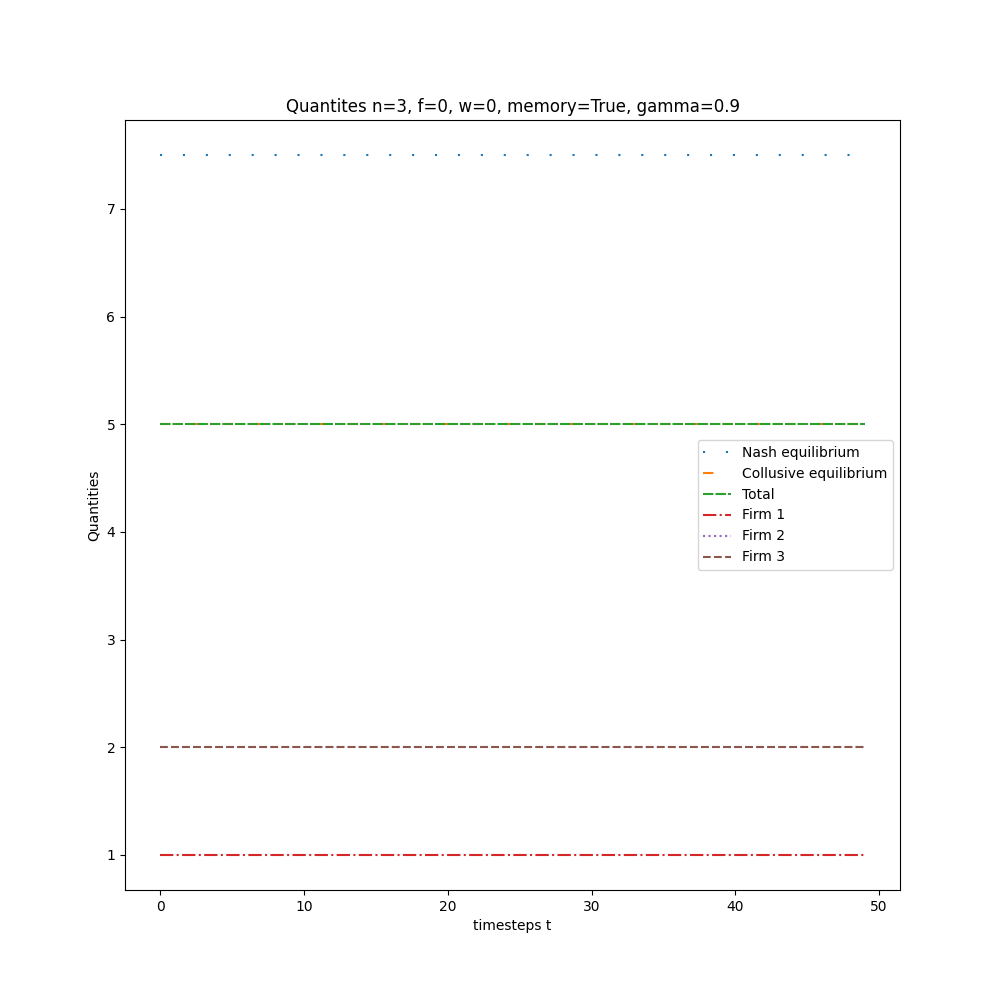
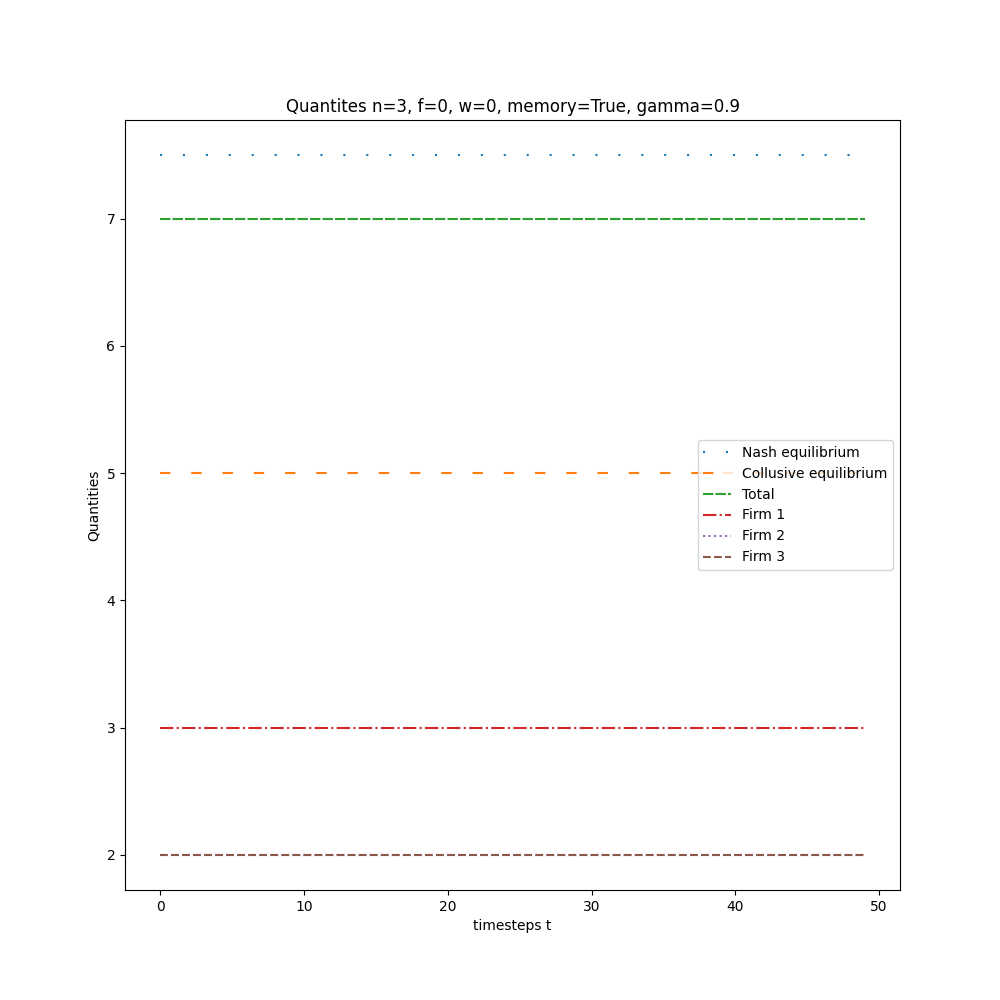
better interpretable values and results

diff --git a/test.py b/test.py
@@ -24,8 +24,8 @@ memory / no memory
 gamma = {0,0.9}
 beta minimum 0.5
 '''
-ws = [0,1]
-fs = [0,2]
+ws = [0,2]
+fs = [0,10,15]
 ns = [2,3]
 gammemos = [[0,False],[0,True],[0.9,True]]
 

diff --git a/testing.py b/testing.py
@@ -1,0 +1,4 @@
+def profit(q,w,f): 
+    return 5*q - w*q - f*(q>0)
+
+print(profit(5,1,30))
